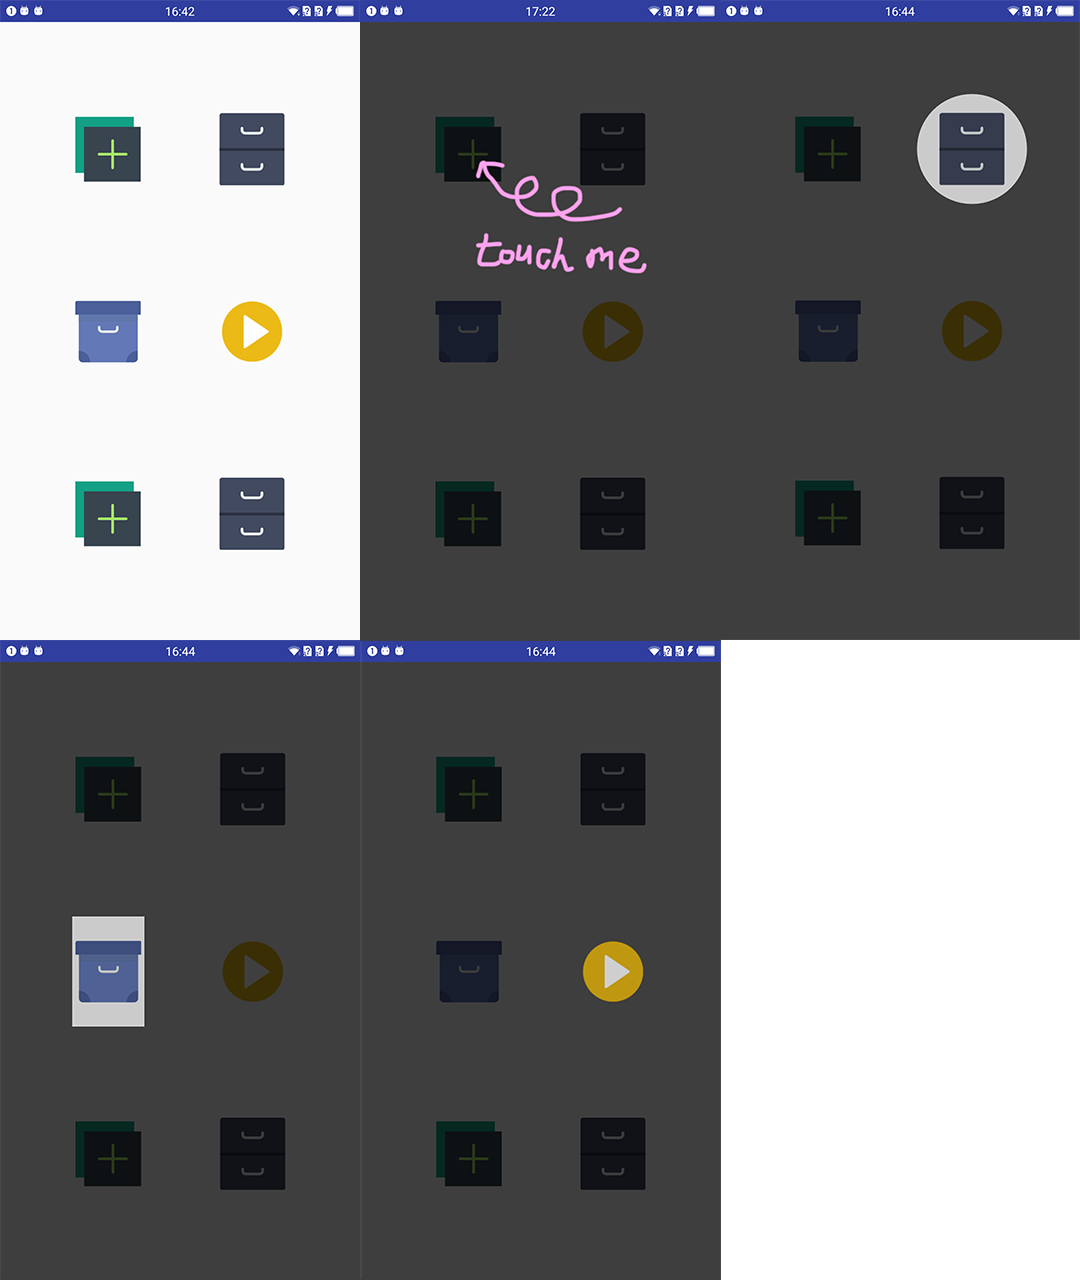
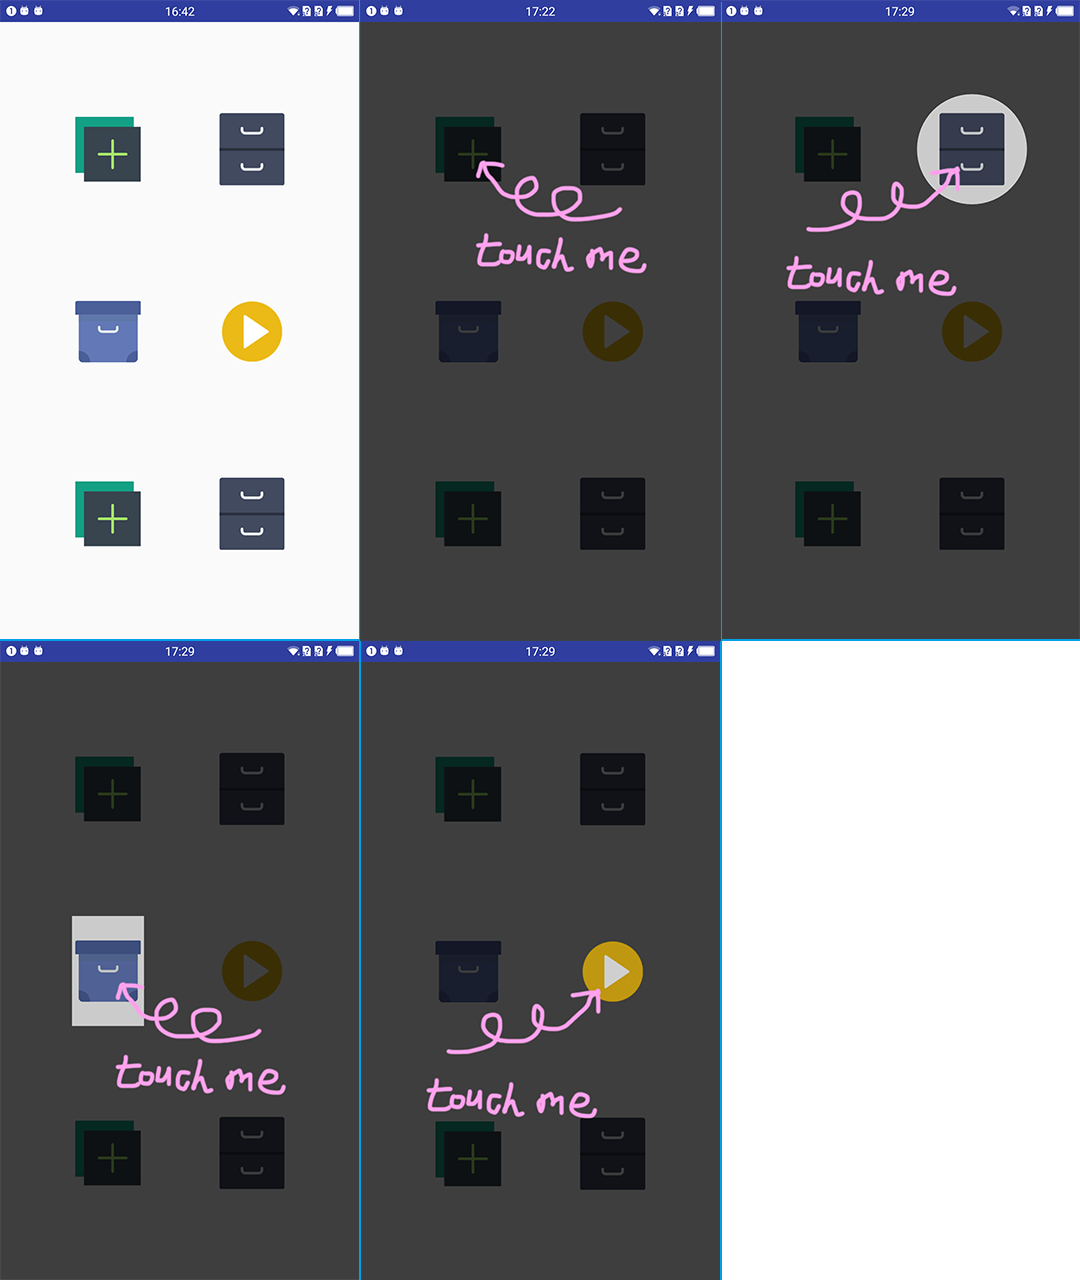
update imgs again

diff --git a/app/src/main/java/xiaozhuai/github/io/userguidedemo/MainActivity.java b/app/src/main/java/xiaozhuai/github/io/userguidedemo/MainActivity.java
@@ -37,16 +37,22 @@ public class MainActivity extends AppCompatActivity {
         mUserGuide.add(
                 GuideBinder.build()
                         .bind(findViewById(R.id.btn_2))
+                        .img(R.drawable.touch_me_2)
+                        .size(400*density, 400*density)
                         .shadowType(GuideBinder.SHADOW_TYPE_CIRCLE)
         );
         mUserGuide.add(
                 GuideBinder.build()
                         .bind(findViewById(R.id.btn_3))
+                        .img(R.drawable.touch_me_1)
+                        .size(400*density, 400*density)
                         .shadowType(GuideBinder.SHADOW_TYPE_RECT)
         );
         mUserGuide.add(
                 GuideBinder.build()
                         .bind(findViewById(R.id.btn_4))
+                        .img(R.drawable.touch_me_2)
+                        .size(400*density, 400*density)
                         .shadowType(GuideBinder.SHADOW_TYPE_FANTASY)
         );
 
